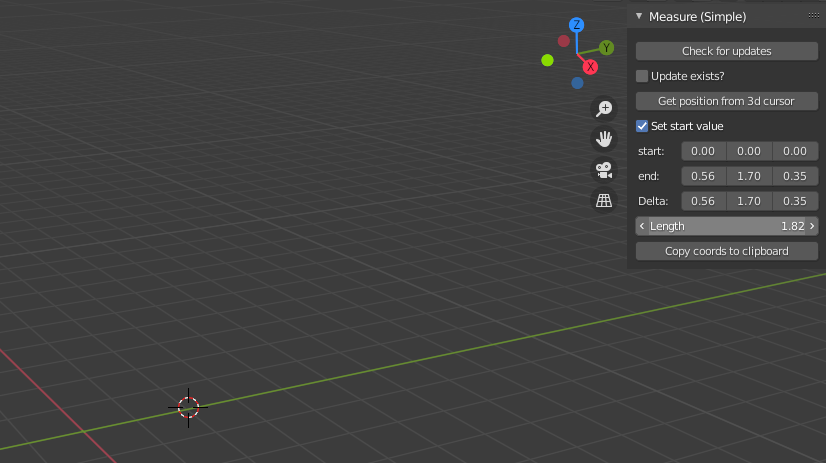
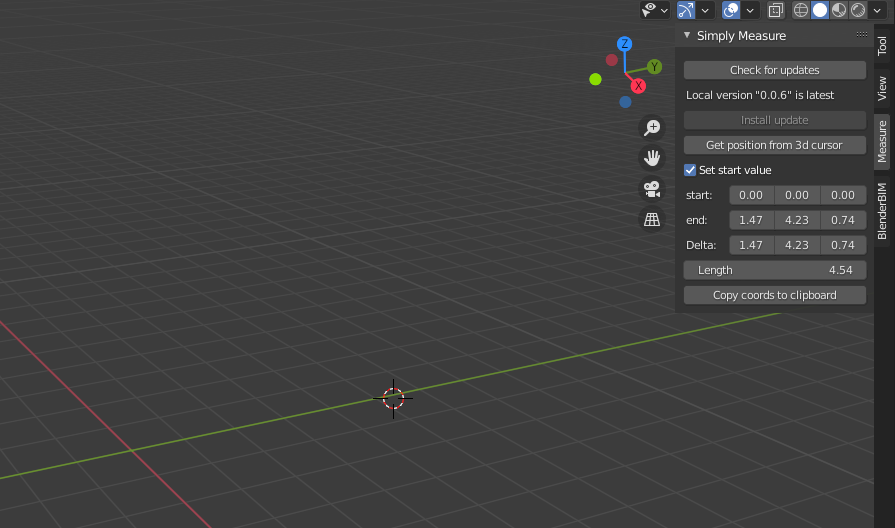
Updating readme and figure to latest version and more complete description

diff --git a/README.md b/README.md
@@ -1,9 +1,10 @@
 # blender_addons
 
-Experiments with blender addons and self updating methods using github actions
+Experiments with blender addons
 
-The goal is to have the addon check for updates and allow the user to update the addon using a single click.
-Currently the addon 
+## Goals
+* Get to know the blender api by creating a "bare minimum" addon
+* Create a demo addon that checks for updates and allow the user to update the addon using a single click.
 
 ![figure](docs/figures/just_a_figure.png)
 

diff --git a/src/addons/bl_measure/README.md b/src/addons/bl_measure/README.md
@@ -1,2 +1,2 @@
-# Measure - A Hello World in Blender API
-The smallest possible addon I could think of when testing an automated addon pipeline
+# Simply Measure - A Hello World in Blender API and Github Actions
+The smallest possible addon I could think of for testing an automated addon pipeline using github actions
